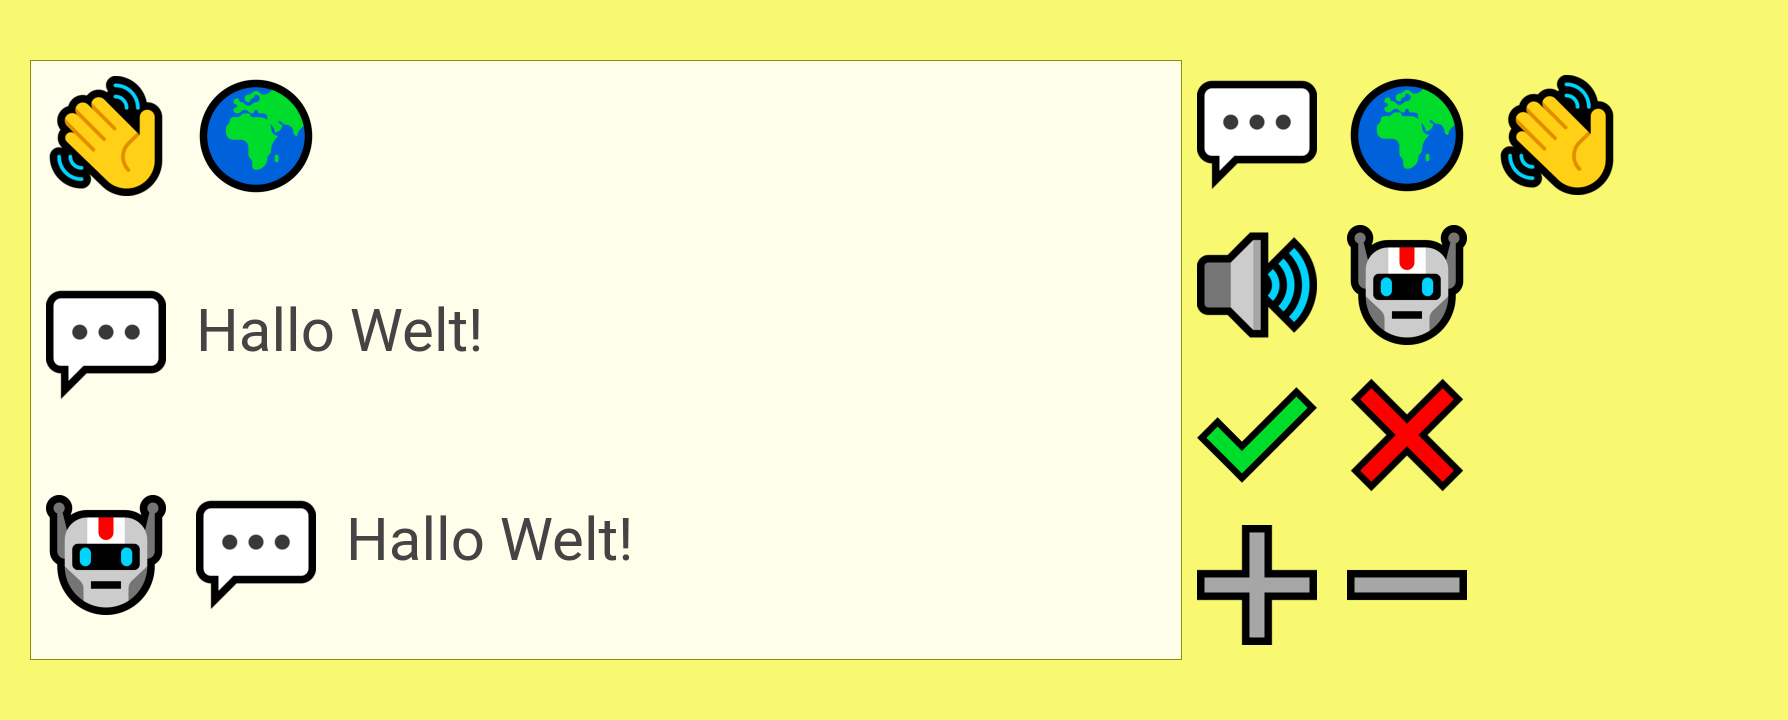
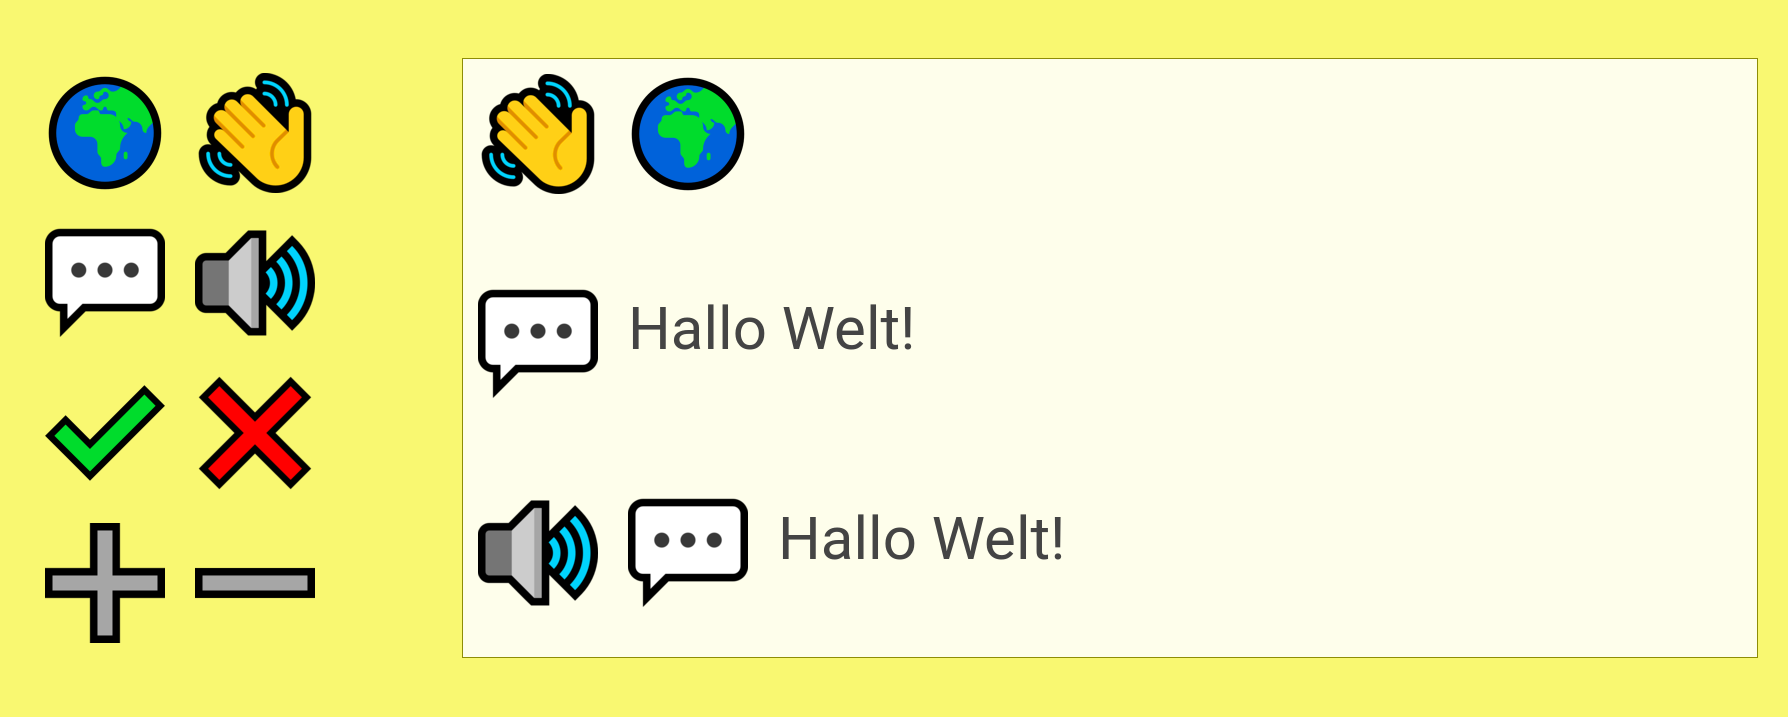
Update product wireframe

diff --git a/layouts/partials/home/product-demo.html b/layouts/partials/home/product-demo.html
@@ -1,40 +1,7 @@
 <section class="tile is-ancestor has-background-primary section">
-    <div class="tile is-parent is-8 has-background-primary-light border-color-primary-dark is-vertical">
-        <figure class="tile is-child image-size-max-120 ">
-            <div class="columns">
-                <img class="column" src="/emojis/waving-hand-sign_1f44b.png">
-                <img class="column" src="/emojis/earth-globe-europe-africa_1f30d.png">
-            </div>
-        </figure>
-        
-        <figure class="tile is-child image-size-max-120 py-5">
-            <div class="columns">
-                <img class="column" src="/emojis/speech-balloon_1f4ac.png">
-                <p class="column is-size-1 has-text-dark is-vcentered">Hallo Welt!</p>
-            </div>
-        </figure>
-
-        <figure class="tile is-child image-size-max-120 ">
-            <div class="columns">
-                <img class="column" src="/emojis/robot-face_1f916.png">
-                <img class="column" src="/emojis/speech-balloon_1f4ac.png">
-                <p class="column is-size-1 has-text-dark is-vcentered">Hallo Welt!</p>
-            </div>
-        </figure>
-
-        <!-- <figure class="tile is-child image-size-max-120 py-5">
-            <div class="columns">
-                <p class="column is-1 is-size-1 has-text-dark is-vcentered">1</p>
-                <img class="column is-1" src="/emojis/heavy-plus-sign_2795.png">
-                <p class="column is-1 is-size-1 has-text-dark is-vcentered">1</p>
-            </div>
-        </figure> -->
-    </div>
-
     <div class="tile is-parent is-vertical">
         <figure class="tile is-child image-size-max-120">
             <div class="columns">
-                <img class="column" src="/emojis/speech-balloon_1f4ac.png">
                 <img class="column" src="/emojis/earth-globe-europe-africa_1f30d.png">
                 <img class="column" src="/emojis/waving-hand-sign_1f44b.png">
             </div>
@@ -42,8 +9,9 @@
 
         <figure class="tile is-child image-size-max-120">
             <div class="columns">
+                <img class="column" src="/emojis/speech-balloon_1f4ac.png">
                 <img class="column" src="/emojis/speaker-with-three-sound-waves_1f50a.png">
-                <img class="column" src="/emojis/robot-face_1f916.png">
+                <!-- <img class="column" src="/emojis/robot-face_1f916.png"> -->
             </div>
         </figure>
 
@@ -61,4 +29,38 @@
             </div>
         </figure>
     </div>
+
+    <div class="tile is-parent is-9 has-background-primary-light border-color-primary-dark is-vertical">
+        <figure class="tile is-child image-size-max-120 ">
+            <div class="columns">
+                <img class="column" src="/emojis/waving-hand-sign_1f44b.png">
+                <img class="column" src="/emojis/earth-globe-europe-africa_1f30d.png">
+            </div>
+        </figure>
+        
+        <figure class="tile is-child image-size-max-120 py-5">
+            <div class="columns">
+                <img class="column" src="/emojis/speech-balloon_1f4ac.png">
+                <p class="column is-size-1 has-text-dark is-vcentered">Hallo Welt!</p>
+            </div>
+        </figure>
+
+        <figure class="tile is-child image-size-max-120 ">
+            <div class="columns">
+                <img class="column" src="/emojis/speaker-with-three-sound-waves_1f50a.png">
+                <img class="column" src="/emojis/speech-balloon_1f4ac.png">
+                <p class="column is-size-1 has-text-dark is-vcentered">Hallo Welt!</p>
+            </div>
+        </figure>
+
+        <!-- <figure class="tile is-child image-size-max-120 py-5">
+            <div class="columns">
+                <p class="column is-1 is-size-1 has-text-dark is-vcentered">1</p>
+                <img class="column is-1" src="/emojis/heavy-plus-sign_2795.png">
+                <p class="column is-1 is-size-1 has-text-dark is-vcentered">1</p>
+            </div>
+        </figure> -->
+    </div>
+
+    
 </section>

diff --git a/assets/_custom-styles.scss b/assets/_custom-styles.scss
@@ -63,4 +63,4 @@ figure.image-size-max-120 img{
     -webkit-user-drag: none;
     -webkit-user-select: none;
     -ms-user-select: none;
-  }
+}
